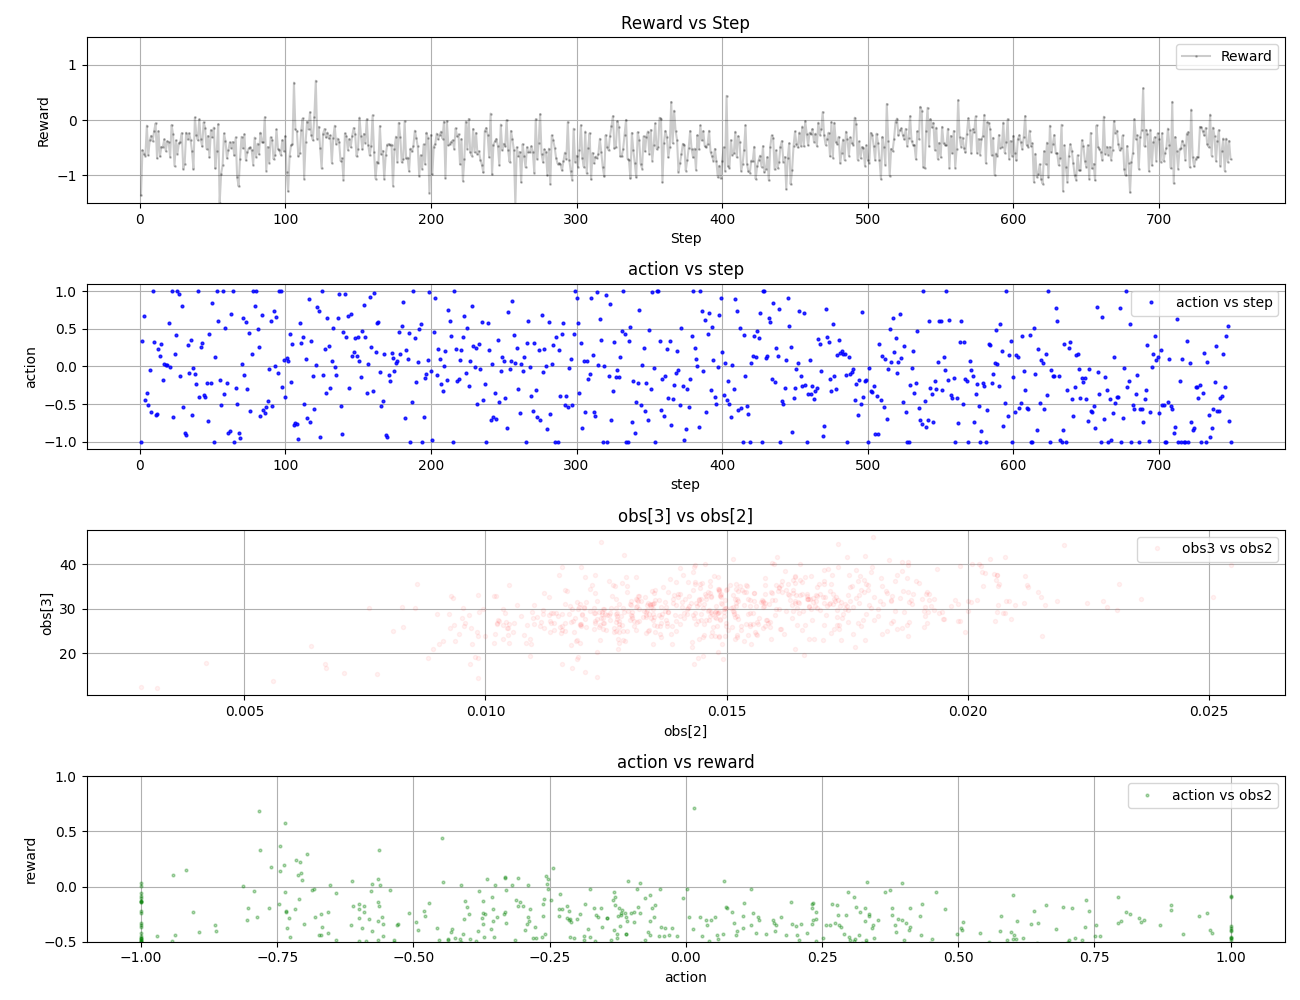
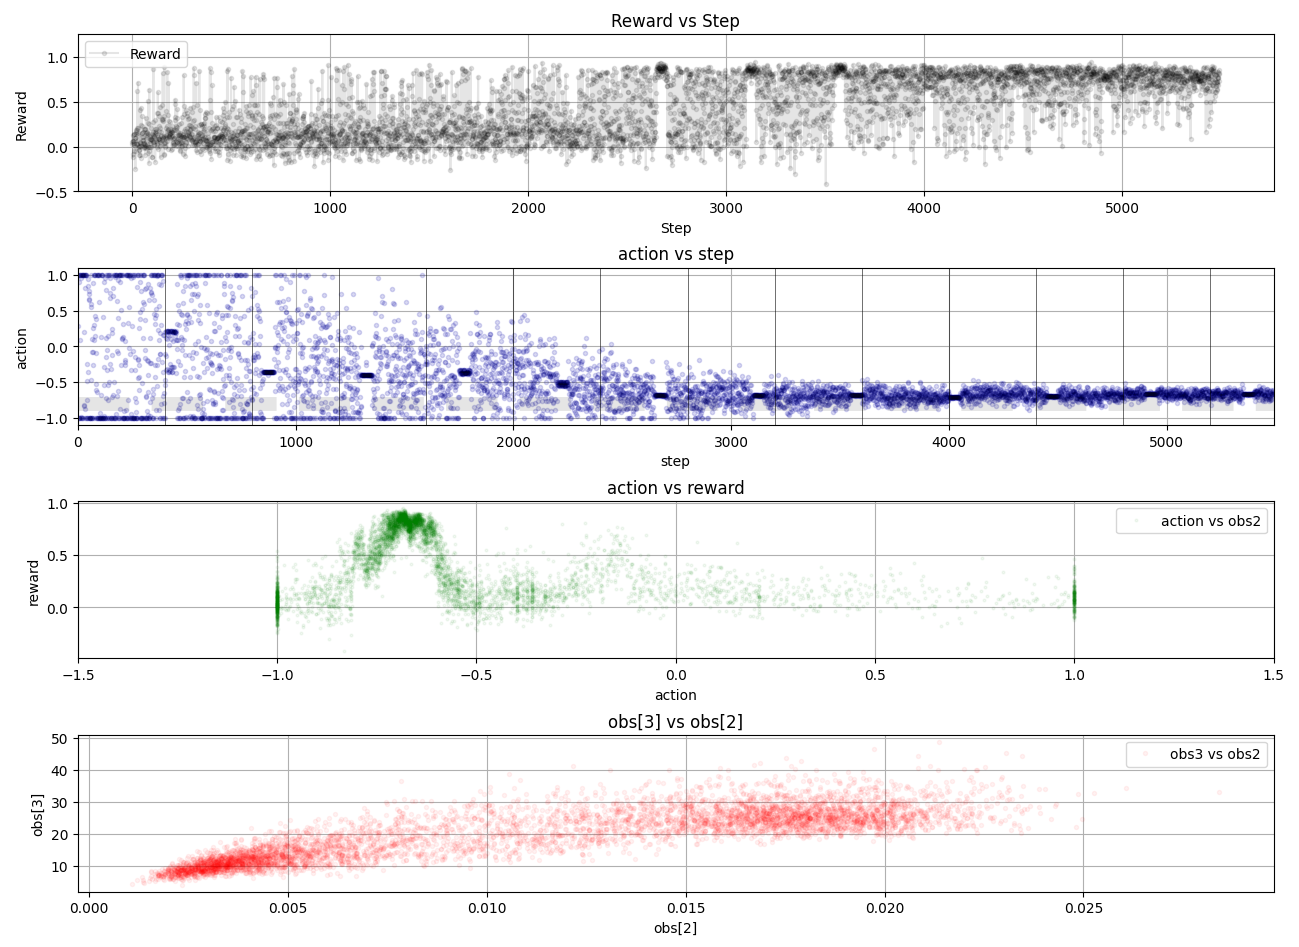
push from guardiola

diff --git a/09-test-CTA-DRL/plot_live_rew.py b/09-test-CTA-DRL/plot_live_rew.py
@@ -12,7 +12,7 @@ import numpy as np
 with open("input_parameters_v1_20250909.json", "r") as f:
     PARAMS = json.load(f)
 
-CSV_FILE = "./live_rewards_temp.csv"
+CSV_FILE = "./logfile-tanda1-A032.csv"
 
 OUTPUT_PNG = "last_reward_plot_debugeval.png"
 PLOT_INTERVAL_SEC = 1.0
